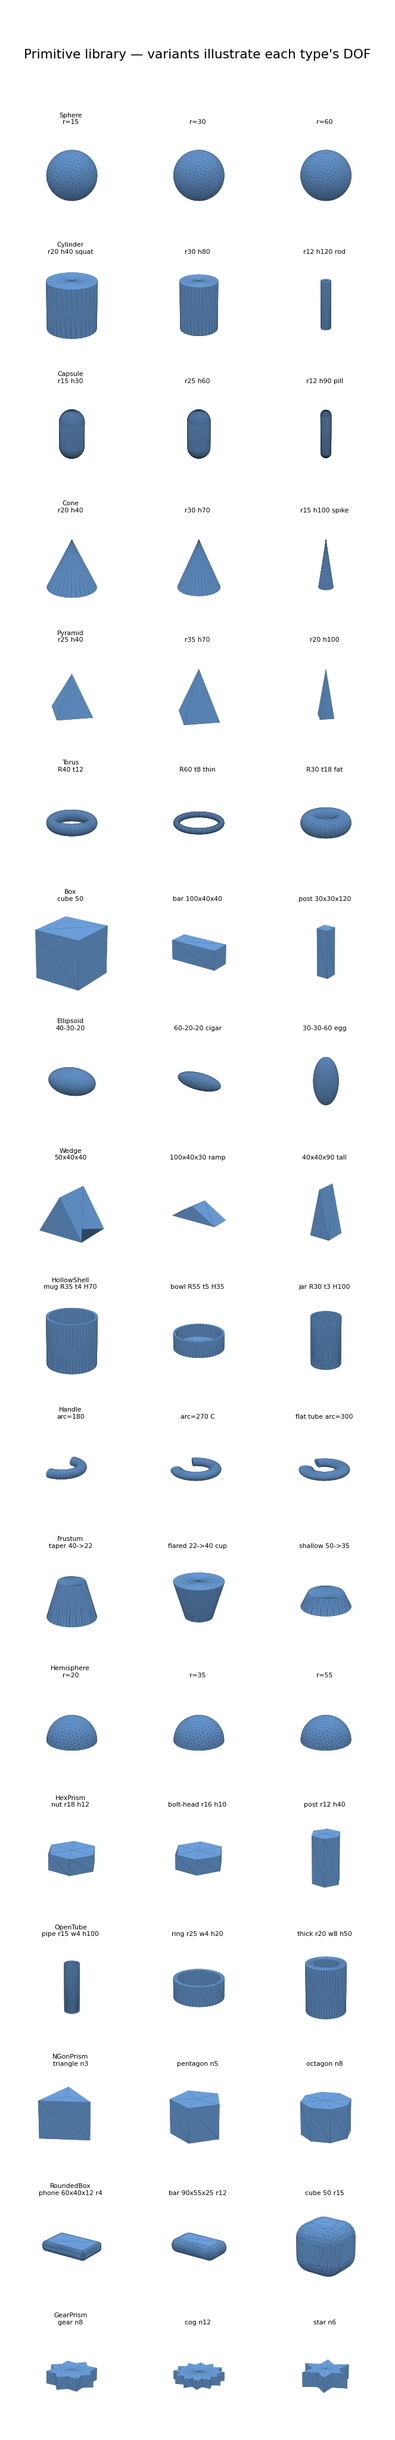
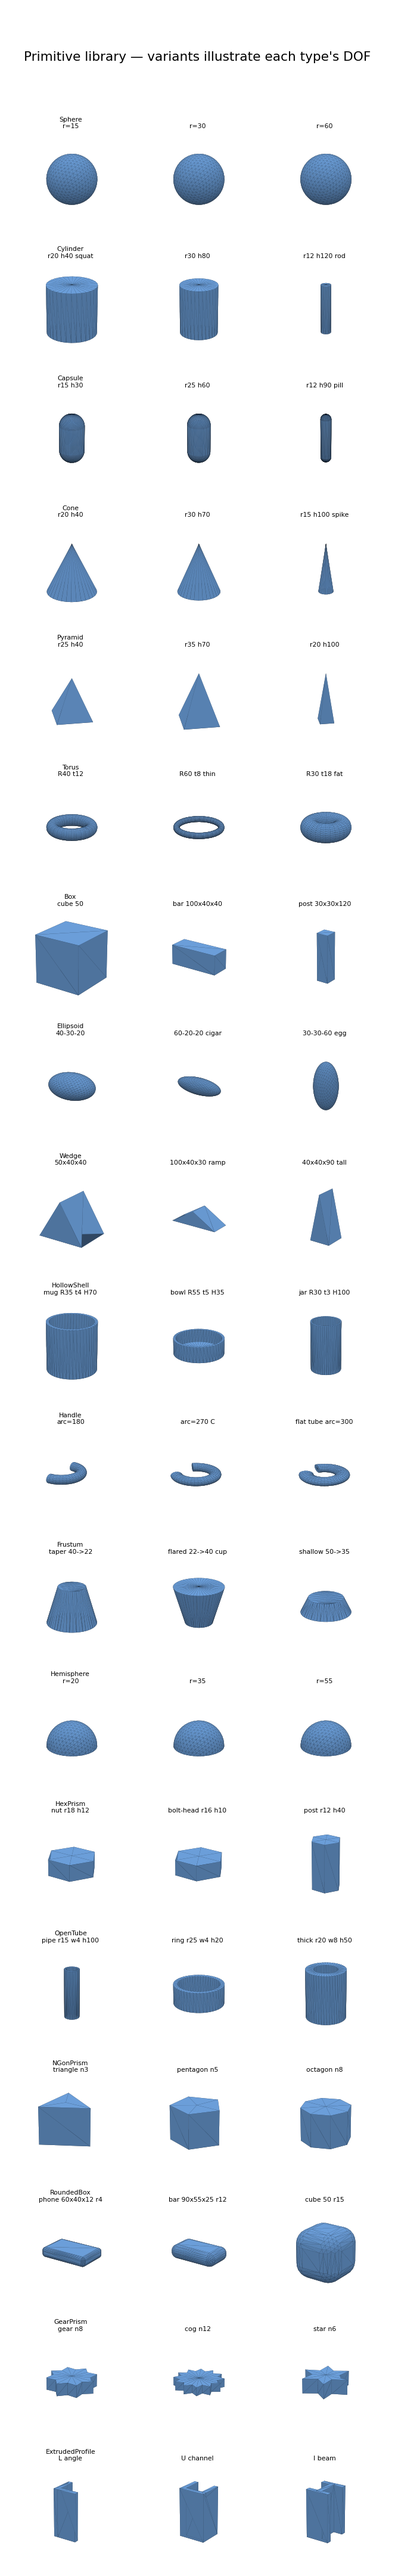
feat: roadmap pass 4 — ExtrudedProfile primitive (L/U/T/I/+) (19 types, 105 archetypes)
Primitive (v2.8): ExtrudedProfile (5 DOF: kind, width, height, thickness, length).
A structural cross-section extruded along +Z — L angle, U channel, T, I-beam, plus.
The profiles are rectilinear, so each is a CSG union of axis-aligned boxes (no
triangulator needed, since shapely is absent). profile_kind 1..5 sampled+rounded;
exact cross-section-area*length volume; watertight, posdef inertia for all 5 kinds.

Archetypes (Group H): angle_iron (L), u_channel (U), t_beam (T), i_beam (I) — each
a single profile member. 105 archetypes.

153 tests pass (was 147). Galleries regenerated (primitives.png 19 types;
archetypes.png 105); docs/README/website/ROADMAP updated (extrusion marked built).
Remaining roadmap: dish/plate, helix/spring, saddle (all niche/high-effort).

diff --git a/docs/index.html b/docs/index.html
@@ -251,7 +251,7 @@
         <div class="column is-6">
           <div class="box">
             <h3 class="title is-5"><span class="pillar-tag" style="background:#2196F3;">1</span> Parametric primitives</h3>
-            <p>Each object is a union of primitives drawn from <strong>18 types</strong> (box, cylinder,
+            <p>Each object is a union of primitives drawn from <strong>19 types</strong> (box, cylinder,
             sphere, capsule, cone, pyramid, torus, ellipsoid, wedge, plus a hollow shell, handle, frustum,
             hemisphere, hex prism, open tube, and n-gon prism) with rigid transforms. Mass, COM, and inertia are closed-form or
             mesh-derived, so every exported asset ships with physically consistent inertial properties.</p>
@@ -301,7 +301,7 @@
     <div class="container is-max-desktop">
       <h2 class="title is-3 has-text-centered">Shape library &amp; limitations</h2>
       <p class="has-text-centered" style="max-width:760px;margin:0 auto 1.5rem;">
-        Objects are assembled from 18 primitive types. Each row below varies one type to show its
+        Objects are assembled from 19 primitive types. Each row below varies one type to show its
         <em>degrees of freedom</em> &mdash; how many independent shape parameters it has (a sphere has
         one, a box has three). The newest two &mdash; a <strong>hollow shell</strong> and a
         <strong>handle</strong> &mdash; were added from this audit to make mugs, cups, and pots real
@@ -310,7 +310,7 @@
         <div class="column is-two-thirds">
           <div class="figure-container">
             <img src="./static/images/primitives.png" alt="Primitive gallery">
-            <p class="figure-caption">The 18 primitive types, each shown with variants that exercise its
+            <p class="figure-caption">The 19 primitive types, each shown with variants that exercise its
               degrees of freedom.</p>
           </div>
         </div>
@@ -352,7 +352,7 @@
         <div class="column is-three-quarters">
           <div class="figure-container">
             <img src="./static/images/strategy_single_sweep.png" alt="Single-type unions sweep">
-            <p class="figure-caption">Single-type unions &mdash; rows are the 18 primitive types,
+            <p class="figure-caption">Single-type unions &mdash; rows are the 19 primitive types,
               columns are N&nbsp;=&nbsp;2…10 copies unioned into one connected body.</p>
           </div>
         </div>

diff --git a/src/primitives.py b/src/primitives.py
@@ -38,6 +38,8 @@ class PrimitiveType(Enum):
     # v2.7 additions (roadmap) — rounded box + gear/star.
     ROUNDED_BOX = "rounded_box"
     GEAR_PRISM = "gear_prism"
+    # v2.8 addition (roadmap) — structural L/U/T/I/+ extrusion.
+    EXTRUDED_PROFILE = "extruded_profile"
 
 
 @dataclass
@@ -746,6 +748,64 @@ class GearPrism(Primitive):
     def volume(self) -> float:
         nt = self._nt()
         return float(nt * self.r_outer * self.r_inner * np.sin(np.pi / nt) * self.height)
+
+    def inertia_tensor(self, density: float = 1000.0) -> np.ndarray:
+        return self._mesh_inertia(density)
+
+
+@dataclass
+class ExtrudedProfile(Primitive):
+    """A structural cross-section (L / U-channel / T / I-beam / plus) extruded along
+    +Z — angle iron, channel, beam, bracket. The profiles are rectilinear, so each
+    is a CSG union of axis-aligned boxes (no triangulator needed). ``profile_kind``
+    1..5 → L,U,T,I,plus (sampled then rounded). Centered on its centroid."""
+    profile_kind: float = 3.0
+    width: float = 0.05
+    height: float = 0.05
+    thickness: float = 0.012
+    length: float = 0.05
+
+    _KINDS = ('L', 'U', 'T', 'I', 'plus')
+
+    def __post_init__(self):
+        object.__setattr__(self, 'ptype', PrimitiveType.EXTRUDED_PROFILE)
+
+    def _dims(self):
+        W, H = float(self.width), float(self.height)
+        t = float(np.clip(self.thickness, 0.002, min(W, H) / 2.0 - 0.001))
+        L = float(max(self.length, 2e-3))
+        k = int(np.clip(round(self.profile_kind), 1, 5)) - 1
+        return k, W, H, t, L
+
+    def _boxes(self):
+        k, W, H, t, L = self._dims()
+        if k == 0:        # L
+            return [((W, t, L), (0, -H / 2 + t / 2, 0)), ((t, H, L), (-W / 2 + t / 2, 0, 0))]
+        if k == 1:        # U / channel
+            return [((W, t, L), (0, -H / 2 + t / 2, 0)),
+                    ((t, H, L), (-W / 2 + t / 2, 0, 0)), ((t, H, L), (W / 2 - t / 2, 0, 0))]
+        if k == 2:        # T
+            return [((W, t, L), (0, H / 2 - t / 2, 0)), ((t, H, L), (0, 0, 0))]
+        if k == 3:        # I-beam
+            return [((W, t, L), (0, H / 2 - t / 2, 0)), ((W, t, L), (0, -H / 2 + t / 2, 0)),
+                    ((t, H, L), (0, 0, 0))]
+        return [((W, t, L), (0, 0, 0)), ((t, H, L), (0, 0, 0))]   # plus
+
+    def to_mesh(self) -> trimesh.Trimesh:
+        meshes = [trimesh.creation.box(extents=np.asarray(s, float),
+                                       transform=Transform(translation=np.asarray(c, float)).as_matrix())
+                  for s, c in self._boxes()]
+        try:
+            solid = trimesh.boolean.union(meshes) if len(meshes) > 1 else meshes[0]
+        except Exception:
+            solid = trimesh.util.concatenate(meshes)
+        return _recenter_and_place(solid, self.transform)
+
+    def volume(self) -> float:
+        k, W, H, t, L = self._dims()
+        area = {0: t * (W + H - t), 1: t * (W + 2 * H - 2 * t), 2: t * (W + H - t),
+                3: t * (2 * W + H - 2 * t), 4: t * (W + H - t)}[k]
+        return float(area * L)
 
     def inertia_tensor(self, density: float = 1000.0) -> np.ndarray:
         return self._mesh_inertia(density)

diff --git a/src/archetypes.py b/src/archetypes.py
@@ -21,7 +21,8 @@ from typing import Callable, Dict
 from primitives import (
     CompositeObject, Box, Cylinder, Sphere, Capsule,
     Cone, Pyramid, Torus, Ellipsoid, Wedge, HollowShell, Handle, Frustum, Hemisphere,
-    HexPrism, OpenTube, NGonPrism, RoundedBox, GearPrism, seat_height, Transform,
+    HexPrism, OpenTube, NGonPrism, RoundedBox, GearPrism, ExtrudedProfile,
+    seat_height, Transform,
     # existing v1 factories (registered below)
     create_small_box, create_tall_box, create_flat_box, create_mug_like,
     create_l_shape, create_dumbbell, create_hammer, create_bottle,
@@ -159,6 +160,13 @@ def _rbox(dims, fillet, x=0.0, y=0.0, z=None, euler=None):
 def _gear(nt, ro, ri, h, x=0.0, y=0.0, z=None, euler=None):
     z = h / 2 if z is None else z
     return GearPrism(n_teeth=nt, r_outer=ro, r_inner=ri, height=h, transform=_T(x, y, z, euler))
+
+
+def _profile(kind, w, h, t, length, x=0.0, y=0.0, z=None, euler=None):
+    """L/U/T/I/plus extrusion (kind 1..5). Cross-section in XY, extruded along Z."""
+    z = length / 2 if z is None else z
+    return ExtrudedProfile(profile_kind=kind, width=w, height=h, thickness=t,
+                           length=length, transform=_T(x, y, z, euler))
 
 
 def _ell(rx, ry, rz, x=0.0, y=0.0, z=None, euler=None):
@@ -856,6 +864,32 @@ def create_birdhouse(w: float = 0.05, h: float = 0.06) -> CompositeObject:
     roof = _pyr(w * 0.85, 0.032, z=h + 0.003)                      # pitched roof, seated on the body
     perch = _cyl(0.004, 0.025, y=w / 2 + 0.006, z=h * 0.55, euler=[np.pi / 2, 0, 0])
     return _co("birdhouse", body, roof, perch)
+
+
+# Group H — structural extrusions (v2.8) — single ExtrudedProfile members.
+
+@archetype("angle_iron")
+def create_angle_iron(w: float = 0.04, h: float = 0.04, t: float = 0.008,
+                      length: float = 0.10) -> CompositeObject:
+    return _co("angle_iron", _profile(1, w, h, t, length))         # L
+
+
+@archetype("u_channel")
+def create_u_channel(w: float = 0.045, h: float = 0.04, t: float = 0.008,
+                     length: float = 0.10) -> CompositeObject:
+    return _co("u_channel", _profile(2, w, h, t, length))          # U
+
+
+@archetype("t_beam")
+def create_t_beam(w: float = 0.05, h: float = 0.05, t: float = 0.01,
+                  length: float = 0.10) -> CompositeObject:
+    return _co("t_beam", _profile(3, w, h, t, length))             # T
+
+
+@archetype("i_beam")
+def create_i_beam(w: float = 0.05, h: float = 0.06, t: float = 0.01,
+                  length: float = 0.11) -> CompositeObject:
+    return _co("i_beam", _profile(4, w, h, t, length))             # I-beam / girder
 
 
 # ---------------------------------------------------------------------------

diff --git a/src/cem.py b/src/cem.py
@@ -24,7 +24,7 @@ from pathlib import Path
 from primitives import (
     CompositeObject, Primitive, Box, Cylinder, Sphere, Capsule,
     Cone, Pyramid, Torus, Ellipsoid, Wedge, HollowShell, Handle, Frustum, Hemisphere,
-    HexPrism, OpenTube, NGonPrism, RoundedBox, GearPrism,
+    HexPrism, OpenTube, NGonPrism, RoundedBox, GearPrism, ExtrudedProfile,
     Transform, PrimitiveType, seat_height, half_extents,
 )
 from scoring import ObjectScorer, ScoreBreakdown, ScoringConfig
@@ -160,6 +160,13 @@ PRIMITIVE_SPECS: List[PrimitiveSpec] = [
                   build=lambda p, t: GearPrism(n_teeth=p[0], r_outer=p[1], r_inner=p[2],
                                                height=p[3], transform=t),
                   extract=lambda pr: np.array([float(pr.n_teeth), pr.r_outer, pr.r_inner, pr.height])),
+    PrimitiveSpec(PrimitiveType.EXTRUDED_PROFILE, ['kind', 'width', 'height', 'thickness', 'length'],
+                  _log(3.0, 0.05, 0.05, 0.012, 0.05), np.array([0.25, 0.3, 0.3, 0.25, 0.3]),
+                  np.array([1.0, 0.02, 0.02, 0.005, 0.02]), np.array([5.0, 0.1, 0.1, 0.02, 0.1]),
+                  build=lambda p, t: ExtrudedProfile(profile_kind=p[0], width=p[1], height=p[2],
+                                                     thickness=p[3], length=p[4], transform=t),
+                  extract=lambda pr: np.array([float(pr.profile_kind), pr.width, pr.height,
+                                               pr.thickness, pr.length])),
 ]
 
 # Default type bias: favor box/cylinder slightly, rest uniform.

diff --git a/scripts/render_primitives.py b/scripts/render_primitives.py
@@ -31,7 +31,7 @@ sys.path.insert(0, str(Path(__file__).resolve().parent))
 from primitives import (Box, Cylinder, Sphere, Capsule, Cone, Pyramid,  # noqa: E402
                         Torus, Ellipsoid, Wedge, HollowShell, Handle,
                         Frustum, Hemisphere, HexPrism, OpenTube, NGonPrism,
-                        RoundedBox, GearPrism)
+                        RoundedBox, GearPrism, ExtrudedProfile)
 from cem import PRIMITIVE_SPECS                                          # noqa: E402
 from _render_common import grid                                         # noqa: E402
 
@@ -130,6 +130,11 @@ GALLERY = [
         ("gear n8", GearPrism(n_teeth=8, r_outer=0.03, r_inner=0.022, height=0.015)),
         ("cog n12", GearPrism(n_teeth=12, r_outer=0.035, r_inner=0.026, height=0.012)),
         ("star n6", GearPrism(n_teeth=6, r_outer=0.03, r_inner=0.016, height=0.018)),
+    ]),
+    ("ExtrudedProfile  (5 DOF: kind, w, h, t, length)", [
+        ("L angle", ExtrudedProfile(profile_kind=1, width=0.045, height=0.045, thickness=0.008, length=0.09)),
+        ("U channel", ExtrudedProfile(profile_kind=2, width=0.05, height=0.045, thickness=0.008, length=0.09)),
+        ("I beam", ExtrudedProfile(profile_kind=4, width=0.05, height=0.06, thickness=0.01, length=0.10)),
     ]),
 ]
 

diff --git a/tests/test_v2.py b/tests/test_v2.py
@@ -12,7 +12,7 @@ import primitives as P
 from primitives import (
     Box, Cylinder, Sphere, Capsule, Cone, Pyramid, Torus, Ellipsoid, Wedge,
     HollowShell, Handle, Frustum, Hemisphere, HexPrism, OpenTube, NGonPrism,
-    RoundedBox, GearPrism, Transform, seat_height,
+    RoundedBox, GearPrism, ExtrudedProfile, Transform, seat_height,
 )
 from archetypes import ARCHETYPE_REGISTRY
 from scoring import ObjectScorer, ScoringConfig
@@ -44,6 +44,8 @@ PRIMS = {
     "ngon_prism": NGonPrism(n_sides=5, radius=0.02, height=0.03),
     "rounded_box": RoundedBox(dimensions=np.array([0.06, 0.04, 0.03]), fillet=0.008),
     "gear_prism": GearPrism(n_teeth=8, r_outer=0.03, r_inner=0.022, height=0.015),
+    "extruded_profile": ExtrudedProfile(profile_kind=4, width=0.05, height=0.06,
+                                        thickness=0.01, length=0.05),
 }
 
 

diff --git a/docs/PRIMITIVES.md b/docs/PRIMITIVES.md
@@ -1,6 +1,6 @@
 # Primitive & Archetype Library — gallery, math, and fidelity audit
 
-This document (a) catalogs the **18 primitive types** the generator builds objects
+This document (a) catalogs the **19 primitive types** the generator builds objects
 from — with a picture, parameters, degrees of freedom (DOF), clamp ranges, math,
 and **limitations**; (b) audits the hand-written **archetypes** to show which
 real-world shapes are currently *faked* because the primitive set is too small;
@@ -53,11 +53,12 @@ clamped to `[min, max]`):
 | ngon_prism ✨ | 3 | n_sides, radius, height | 5, 0.02, 0.03 | 3, 0.008, 0.01 | 8, 0.05, 0.08 |
 | rounded_box ✨ | 4 | dx, dy, dz, fillet | 0.06, 0.04, 0.03, 0.008 | 0.02, 0.02, 0.015, 0.003 | 0.12, 0.12, 0.1, 0.015 |
 | gear_prism ✨ | 4 | n_teeth, r_outer, r_inner, height | 8, 0.03, 0.022, 0.015 | 5, 0.015, 0.01, 0.006 | 12, 0.05, 0.04, 0.04 |
+| extruded_profile ✨ | 5 | kind, width, height, thickness, length | 3, 0.05, 0.05, 0.012, 0.05 | 1, 0.02, 0.02, 0.005, 0.02 | 5, 0.1, 0.1, 0.02, 0.1 |
 
-**Total: 48 sampled shape parameters across 18 types** (✨ = the audit-driven
+**Total: 53 sampled shape parameters across 19 types** (✨ = the audit-driven
 additions: v2.2 hollow_shell + handle, v2.3 frustum + hemisphere, v2.5 hex_prism,
-v2.6 open_tube + ngon_prism, v2.7 rounded_box + gear_prism). Each primitive also
-carries a 6-DOF `Transform` (position + orientation) set during composition.
+v2.6 open_tube + ngon_prism, v2.7 rounded_box + gear_prism, v2.8 extruded_profile).
+Each primitive also carries a 6-DOF `Transform` (position + orientation).
 
 ### Math & construction (per type)
 
@@ -84,6 +85,7 @@ carries a 6-DOF `Transform` (position + orientation) set during composition.
 | **NGonPrism** ✨ | `n/2 · r² sin(2π/n) · h` | `cylinder(sections=n)`, n∈3..8 | `_mesh_inertia` |
 | **RoundedBox** ✨ | `lwh + 2r(lw+lh+wh) + πr²(l+w+h) + 4/3πr³` | **convex hull** of 8 corner spheres (= box⊕ball) | `_mesh_inertia` |
 | **GearPrism** ✨ | `n·r₀·rᵢ·sin(π/n)·h` | manual alternating-radius star prism (fan-capped) | `_mesh_inertia` |
+| **ExtrudedProfile** ✨ | `cross-section-area · length` | CSG union of axis-aligned boxes (L/U/T/I/+) | `_mesh_inertia` |
 
 ### Limitations (what each type **cannot** represent)
 
@@ -102,7 +104,7 @@ This is the crux of the audit — every limitation below forces an archetype to
 
 ## 2. Archetype library & fidelity audit
 
-The 101 hand-written archetypes (`src/archetypes.py` + 20 v1 factories in
+The 105 hand-written archetypes (`src/archetypes.py` + 20 v1 factories in
 `src/primitives.py`) are the "ground-truth" shapes the generator is meant to
 approximate. Multi-part archetypes deliberately **overlap** their parts so the
 union is one connected body.

diff --git a/README.md b/README.md
@@ -100,7 +100,7 @@ Two knobs control how many objects flow through the pipeline:
 ## How It Works
 
 ### 1. Parametric Object Representation
-Objects are compositions of **18 primitive types** (the 9 base shapes plus v2.2 hollow-shell + handle, v2.3 frustum + hemisphere, v2.5 hex-prism, v2.6 open-tube + n-gon prism, and v2.7 rounded-box + gear/star prism) with rigid transforms. This keeps generation fast and interpretable. See the [**Shape Library & Limitations**](#shape-library--limitations) section below for the full gallery, parameters, and a fidelity audit.
+Objects are compositions of **19 primitive types** (the 9 base shapes plus the audit/roadmap additions through v2.8 L/U/T/I extrusion) with rigid transforms. This keeps generation fast and interpretable. See the [**Shape Library & Limitations**](#shape-library--limitations) section below for the full gallery, parameters, and a fidelity audit.
 
 ### 2. Constraint-Based Scoring
 Each object is scored on manipulation-relevant criteria:
@@ -133,7 +133,7 @@ Generated objects are exported with:
 
 ## Shape Library & Limitations
 
-The generator assembles objects from **18 primitive types**. Each row below varies
+The generator assembles objects from **19 primitive types**. Each row below varies
 one type to show its **degrees of freedom** (DOF) — how many independent shape
 parameters it has (sphere = 1, box = 3):
 
@@ -157,6 +157,9 @@ parameters it has (sphere = 1, box = 3):
 | **hex_prism** ✨ | 2 | radius, height | hex nut / bolt head |
 | **open_tube** ✨ | 3 | outer, wall, height | pipe / ring (open both ends) |
 | **ngon_prism** ✨ | 3 | n_sides, radius, height | triangular…octagonal prism |
+| **rounded_box** ✨ | 4 | dx, dy, dz, fillet | filleted phone / tablet / soap bar |
+| **gear_prism** ✨ | 4 | n_teeth, r_outer, r_inner, height | gear / cog / star knob |
+| **extruded_profile** ✨ | 5 | kind, w, h, t, length | L / U / T / I structural member |
 
 ### Faked shapes → missing primitives
 

diff --git a/docs/ROADMAP.md b/docs/ROADMAP.md
@@ -70,7 +70,7 @@ Ordered roughly by value × effort. "Unlocks" lists archetypes/features it would
 | **rounded / fillet box** ✅ | dims, fillet | convex hull of 8 corner spheres (= box⊕ball) | medium | tablet, usb, smartwatch, soap_bar, key_fob (built v2.7) |
 | **gear / star prism** ✅ | n_teeth, r_outer, r_inner, height | manual alternating-radius star prism | medium | gear_like (real teeth), star_knob (built v2.7) |
 | **dish / plate** | radius, depth, wall | flattened `hollow_shell` / shallow SoR cap | low | plate, saucer, shallow bowl, lid (or just clamp `hollow_shell` thin) |
-| **arbitrary-polygon extrusion** | profile (L/U/T), height | needs a small triangulator (no shapely) | high | brackets, channels, extrusions, I-beams |
+| **L/U/T/I extrusion** ✅ | kind, w, h, t, length | CSG union of axis-aligned boxes | medium | angle_iron, u_channel, t_beam, i_beam (built v2.8) |
 | **helix / spring** | coil_r, wire_r, pitch, turns | sweep a circle along a helix polyline (manual) | high | spring, coil, threaded look |
 | **saddle (hyperbolic patch)** | width, depth, curvature | parametric grid mesh | high (niche) | ergonomic grips, seats |
 

diff --git a/docs/gallery/README.md b/docs/gallery/README.md
@@ -9,7 +9,7 @@ primitives), and design sketches for proposed new primitives.
 
 ## Primitive library (`primitives.png`)
 
-The 18 primitive types, each shown with 2–3 variants illustrating its degrees of
+The 19 primitive types, each shown with 2–3 variants illustrating its degrees of
 freedom (sphere = 1 DOF, box = 3 DOF).
 
 ![primitives](primitives.png)
@@ -25,8 +25,8 @@ limits generation quality.
 
 ## Archetype library (`archetypes.png`)
 
-All 101 hand-written archetypes in `ARCHETYPE_REGISTRY` (`src/archetypes.py`),
-built from the 18 primitive types (box, cylinder, sphere, capsule, cone, pyramid,
+All 105 hand-written archetypes in `ARCHETYPE_REGISTRY` (`src/archetypes.py`),
+built from the 19 primitive types (box, cylinder, sphere, capsule, cone, pyramid,
 torus, ellipsoid, wedge). Each is a single connected body.
 
 ![archetypes](archetypes.png)
